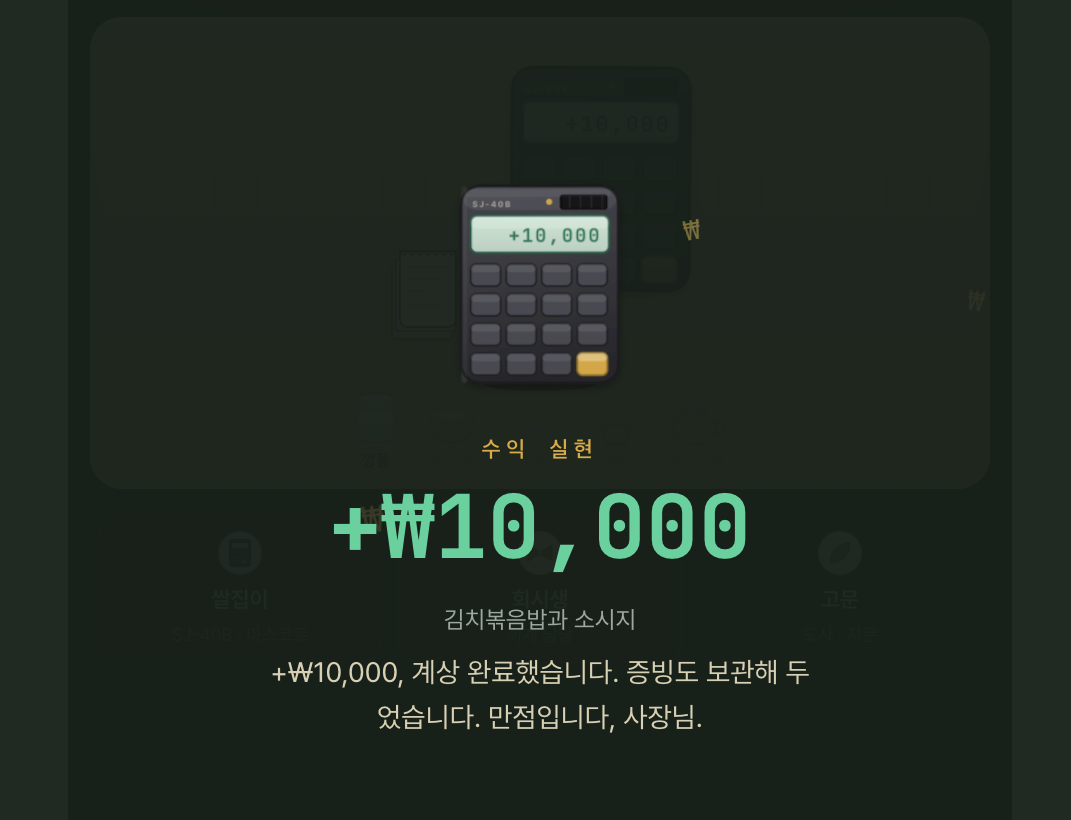
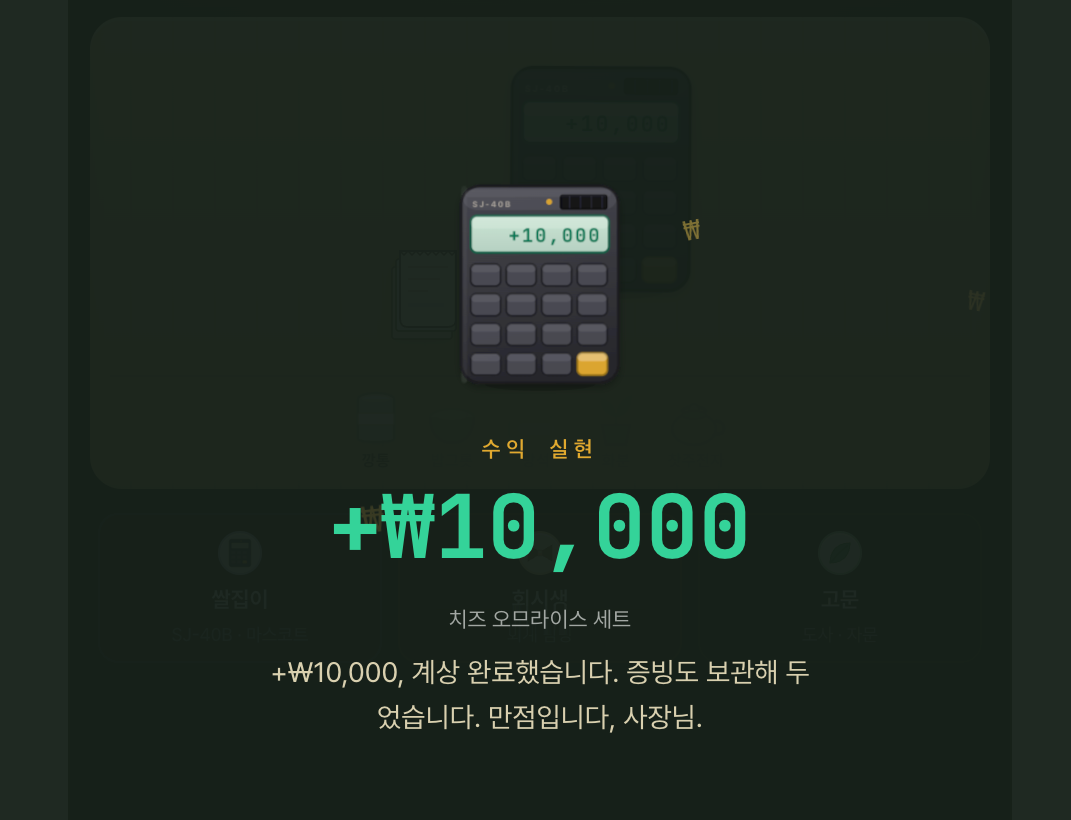
chore: 공개판 정리 — 실제 사진 라벨·평가 결과 빼기, 리빌 스크린샷 메뉴 교체, 내부 문서·이름 주석 정리
- scripts/evalset.labels.json·eval-result.json: 실제 식사 사진의 라벨과 평가
  결과라 저장소에서 빼고 .gitignore에 넣는다. eval-pricing.ts는 라벨 파일이
  없으면 빈 셋으로 돈다.
- docs/images/리빌화면.png: 실제 기록의 메뉴 이름을 지어낸 이름으로 바꿨다.
- 주석의 내부 문서 경로와 사람 이름 표기, AI 데이터 전략 표현을 일반 표현으로
  바꿨다.
- LOCAL_RECOVERY.md: 실제 건수·날짜를 일반 표현으로 바꿨다.

Changed region(s): [[0.3081, 0.5793, 0.7087, 0.7012], [0.4006, 0.7317, 0.5854, 0.7927], [0.5238, 0.4268, 0.5854, 0.4573]]

diff --git a/server/routers/savings.ts b/server/routers/savings.ts
@@ -38,12 +38,12 @@ export const savingsRouter = router({
         incomeSource: incomeSourceInput.optional(), // #37+#38 수익원 (미지정=미분류, 커스텀 허용 #47)
         originalAmount: z.number().int().positive(),
         actualAmount: z.number().int().min(0),
-        // AI가 처음 추정했던 기준가(있으면). 최종 확정값과 다르면 보정 데이터로 기록 → '실가격 데이터 해자'.
+        // AI가 처음 추정했던 기준가(있으면). 최종 확정값과 다르면 보정 데이터로 기록한다.
         aiOriginalAmount: z.number().int().positive().optional(),
         aiActualAmount: z.number().int().min(0).optional(),
         aiEstimated: z.enum(["yes", "no"]).default("no"),
         aiReason: z.string().optional(),
-        // #43 — AI 단체 추론값 (파인튜닝·데이터 해자용 보존)
+        // #43 — AI 단체 추론값 (보정 비교용으로 보존)
         aiPeopleCount: z.number().int().min(1).max(50).optional(),
         aiGroupOriginalAmount: z.number().int().positive().optional(),
         aiGroupActualAmount: z.number().int().min(0).optional(),
@@ -100,7 +100,7 @@ export const savingsRouter = router({
             date: input.date,
           });
         } catch { /* 사전 축적 실패 무시 */ }
-        // 데이터 해자: AI 추정 기준가 → 사용자 확정 실가격의 '보정'을 쌓는다(클라가 AI 추정 원본값을 보낼 때만 작동).
+        // 보정 기록: AI 추정 기준가 → 사용자 확정 실가격의 '보정'을 쌓는다(클라가 AI 추정 원본값을 보낼 때만 작동).
         const correctedOrig = input.aiOriginalAmount !== undefined && input.aiOriginalAmount !== originalAmount;
         const correctedActual = input.aiActualAmount !== undefined && input.aiActualAmount !== actualAmount;
         if (input.aiEstimated === "yes" && (correctedOrig || correctedActual)) {

diff --git a/client/src/lib/voice.ts b/client/src/lib/voice.ts
@@ -49,7 +49,7 @@ export function cpaWeeklyComment(count: number, profit: number): string {
 // ── 회시생 — 0원 기록(공짜·얻어먹음) 특수 촌평 ──────────────
 export const CPA_ZERO_LINE = "취득원가 0원. 회계적으로 가장 아름다운 자산입니다.";
 
-// ── 말의 경제 (v1.2 상욱): 회시생은 거의 다 쌀집이(숫자)로 말한다 ──
+// ── 말의 경제 (v1.2): 회시생은 거의 다 쌀집이(숫자)로 말한다 ──
 // 육성(문장)은 '할 말이 있는 날'만: 0원·이스터에그·평소가 초과 등은 반드시, 평일은 ~30%.
 // 침묵하는 날의 리빌은 쌀집이 코드가 대신한다 — "회계사는 말보다 숫자로 말한다."
 export function cpaRevealLine(profit: number, special = false): string | null {
@@ -96,7 +96,7 @@ export function ssalDisplay(fedToday: boolean, exclude?: string | null): SsalCod
   return { ...pick, rare: false };
 }
 
-// ── 금액 이스터에그 (#41 v3 상욱 지시) — 수익 금액 자체가 의미 있는 숫자일 때 ──
+// ── 금액 이스터에그 (#41 v3) — 수익 금액 자체가 의미 있는 숫자일 때 ──
 export function profitEasterEgg(profit: number): string | null {
   const map: Record<number, string> = {
     1004: "천사의 수익입니다.",

diff --git a/client/src/components/ReportShareCard.tsx b/client/src/components/ReportShareCard.tsx
@@ -39,7 +39,7 @@ export default function ReportShareCard({
         {has("crown") && <div style={{ marginTop: "-3px" }}><CrownSticker /></div>}
       </div>
       <div style={{ fontSize: "11px", color: theme.sub, textAlign: "left", fontFamily: "'JetBrains Mono', ui-monospace, monospace", position: "relative" }}>{period}</div>
-      {/* C1 정정(상욱): 외부 설명 금지 — 세계관 안에서 이건 그냥 수익이다. 외부인 목표 반응 = "이거 뭐야?" */}
+      {/* C1 정정: 외부 설명 금지 — 세계관 안에서 이건 그냥 수익이다. 외부인 목표 반응 = "이거 뭐야?" */}
       <div style={{ fontSize: "34px", fontWeight: 800, color: theme.accent, fontFamily: "'JetBrains Mono', ui-monospace, monospace", textAlign: "left", marginTop: "10px", position: "relative" }}>+₩{fmt(amount)}</div>
       {subline && (
         <div style={{ fontSize: "11px", color: theme.sub, textAlign: "left", marginTop: "2px", position: "relative" }}>{subline}</div>

diff --git a/server/db/ops.ts b/server/db/ops.ts
@@ -1,5 +1,5 @@
 // 검증 계기판 (#53) — 첫 무리 4주 킬 기준을 판정하는 지표.
-// 기준 출처: 사업화_자료/거지로그_객관적_가능성_평가.md §4 (가입→첫기록 40%+, D7 ≥15% 등).
+// 기준: 가입→첫기록 40%+, D7 ≥15% 등 (운영 때 정한 내부 기준).
 // 규모가 작으므로(수십 명) 이벤트를 통째로 당겨 JS로 계산 — 단순함이 정확성보다 깨지기 어렵다.
 import { gte } from "drizzle-orm";
 import { usageEvents, users, savingsEntries, feedbacks } from "../../drizzle/schema";
@@ -241,7 +241,7 @@ export async function getOpsReport() {
     {
       id: "d1", label: "D1 재방문", kind: "rate", value: d1Den ? d1Value : null,
       num: d1Num, den: d1Den, target: 0,
-      status: "pending", // §4 킬 기준에 D1 임계 없음 — 참고용
+      status: "pending", // 킬 기준에 D1 임계 없음 — 참고용
       hint: "가입 다음날 활동",
     },
     {

diff --git a/client/src/components/FirstRecordGate.tsx b/client/src/components/FirstRecordGate.tsx
@@ -1,5 +1,5 @@
 // 첫 기록 게이트 (#55) — 기록 0건인 사장님은 첫 기록(aha: 사진→원가 계산→리빌)까지 앱이 놓아주지 않는다.
-// 상욱 지시(2026-06-12): "처음 쓰는 사람은 사진 올리면 원가 계산해주는 그걸 강제로 하게 해야 함."
+// 결정(2026-06-12): 처음 쓰는 사람은 사진을 올려 원가 계산을 먼저 해 보게 한다.
 // 사진 선택을 취소해도 이 게이트로 돌아온다(조건: 기록 0 && 진행 중인 분석 없음). 탈출구는 직접 입력뿐.
 // 카피 규칙: 세계관 v1.3 — 시스템 캡션 주어=회시생, 빈말 금지, 번 돈 프레임.
 import SsalCalc from "@/components/SsalCalc";

diff --git a/scripts/eval-pricing.ts b/scripts/eval-pricing.ts
@@ -3,7 +3,7 @@
 //   npx tsx scripts/eval-pricing.ts [사진폴더] [--baseline]
 //   기본 폴더: uploads/ai-cropped
 //   --baseline : 직전 커밋(HEAD)의 프롬프트(v1)도 함께 돌려 강화본(v2)과 나란히 비교
-// 라벨: scripts/evalset.labels.json (파일명 → {name, orig, people}). 내가 사진을 직접 보고 매긴 시중 정가.
+// 라벨: scripts/evalset.labels.json (파일명 → {name, orig, people}). 사진을 직접 보고 매긴 시중 정가. 실제 사진의 라벨이라 저장소에는 넣지 않는다(.gitignore).
 import * as fs from "fs";
 import { execSync } from "child_process";
 import { IMAGE_ANALYSIS_SYSTEM_PROMPT } from "../server/prompts";

diff --git a/server/kakao.ts b/server/kakao.ts
@@ -26,7 +26,7 @@ function getRedirectUri(req: Request): string {
   return `${getBaseUrl(req)}/api/auth/kakao/callback`;
 }
 
-// 카카오 닉네임 → 기본 표시 이름. 성씨 한 글자 + "사장님" (예: 박상욱 → 박사장님). (v1.3 F2)
+// 카카오 닉네임 → 기본 표시 이름. 성씨 한 글자 + "사장님" (예: 홍길동 → 홍사장님). (v1.3 F2)
 // 닉네임이 비어 있으면 그냥 "사장님".
 function toPresidentName(nickname: string | undefined | null): string {
   const surname = Array.from((nickname ?? "").trim())[0];

diff --git a/server/backup.ts b/server/backup.ts
@@ -1,4 +1,4 @@
-// 자동 백업 (#61) — "백업을 폰에 받는 건 아니다, 시스템이 이중으로" (상욱 2026-06-12).
+// 자동 백업 (#61) — 백업은 폰에 받지 않고 시스템이 이중으로 맡는다 (2026-06-12).
 // 매일 KST 04시대에 DB 전체를 JSON으로 덤프 → 영속 볼륨(UPLOAD_DIR)/backups/에 7일 롤링 보존.
 // 레이어: ① Turso 원격(서비스 자체 내구성) ② 본 일일 덤프(볼륨 — 재배포와 무관) ③ /ops/backup 수동(비상).
 import fs from "node:fs";

diff --git a/client/src/lib/brand.ts b/client/src/lib/brand.ts
@@ -12,7 +12,7 @@ export const CHARACTER_NAME = "쌀집이";
 export const CALC_MODEL = "SJ-40B";
 /** 보좌 캐릭터 — 김집사 → 회시생 (#41 v3) */
 export const CPA_NAME = "회시생";
-/** 사용자 호칭 — 회장님 → CEO님(v3) → 사장님(v1.3: 소규모 기업 현실 호칭, 상욱) */
+/** 사용자 호칭 — 회장님 → CEO님(v3) → 사장님(v1.3: 소규모 기업 현실 호칭) */
 export const USER_TITLE = "사장님";
 
 /**

diff --git a/server/opsDashboard.ts b/server/opsDashboard.ts
@@ -144,7 +144,7 @@ export function renderOpsDashboardHtml(r: OpsReport, opsKey: string): string {
   <div class="verdict-detail">${esc(v.detail)}</div>
 </div>
 
-<h2>킬 신호 <span class="d">가능성 평가 §4 · 운영자 제외 · 비율=${MIN_RATE_DEN}명+</span></h2>
+<h2>킬 신호 <span class="d">운영자 제외 · 비율=${MIN_RATE_DEN}명+</span></h2>
 <div class="siggrid">${signalCards}</div>
 <div class="row6">${pulseHtml}</div>
 

diff --git a/README.md b/README.md
@@ -22,7 +22,7 @@
 - **수익 4분류** — 절약형(덜 썼다) · 받음형(얻어먹었다) · 절제형(참았다) · 실수익(알바·용돈). 수익원 문자열로 기본 분류를 추론하고 칩으로 덮어쓴다. (`shared/profitKinds.ts`)
 - **장부** — 날짜별 그룹, 상세 시트, 달력, 일괄 편집, 기간별 리포트 카드(공유용 이미지 캡처).
 - **AI 분석 파이프라인** — 사진 자동 크롭, EXIF 날짜 추출, 백그라운드 분석 큐, 1인당 하루 30회 상한, 1차 모델 재시도 후 가벼운 모델로 자동 폴백(`server/llm.ts`).
-- **원가 추정 정확도 평가** — `scripts/eval-pricing.ts`. 직접 보고 시중가를 매긴 사진 라벨셋(`evalset.labels.json`)으로 직전 커밋 프롬프트(v1)와 현재 프롬프트(v2)를 나란히 돌려 기준가 평균오차·인분 정확도·불변식(`기준가 − Σ절약단계 = 실지출`) 통과율을 비교한다. 라벨셋은 9장으로 작다 — 프롬프트를 바꿀 때 눈대중 대신 쓰는 회귀 검사 정도의 역할이다.
+- **원가 추정 정확도 평가** — `scripts/eval-pricing.ts`. 직접 보고 시중가를 매긴 사진 라벨셋(`evalset.labels.json` — 실제 사진의 라벨이라 저장소에는 넣지 않는다)으로 직전 커밋 프롬프트(v1)와 현재 프롬프트(v2)를 나란히 돌려 기준가 평균오차·인분 정확도·불변식(`기준가 − Σ절약단계 = 실지출`) 통과율을 비교한다. 라벨셋은 9장으로 작다 — 프롬프트를 바꿀 때 눈대중 대신 쓰는 회귀 검사 정도의 역할이다.
 - **카카오 로그인**, **PWA**(홈 화면 설치), **웹 푸시**(저녁 기록 알림), **일일 백업 덤프**, **운영 계기판**(`/ops` — 기록 수·사진 영속성·킬 기준 판정).
 - **로컬 복구 모드** — 배포를 내린 뒤 백업 JSON과 원격 DB를 읽기 전용으로 비교해 더 최신 데이터를 로컬 SQLite로 복원하고, 외부 연동(Turso·Kakao·Gemini·푸시)을 전부 끈 채 개인용으로 실행한다. ([LOCAL_RECOVERY.md](LOCAL_RECOVERY.md))
 
